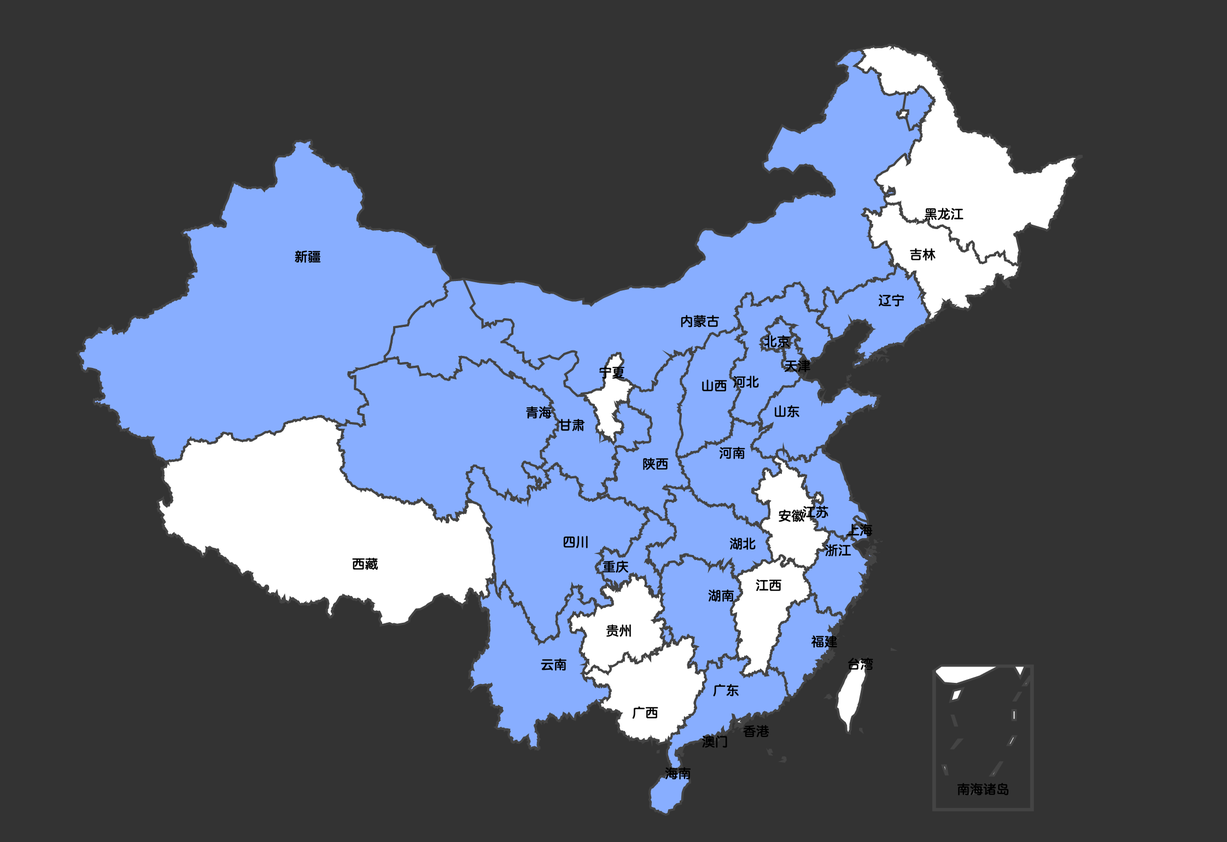
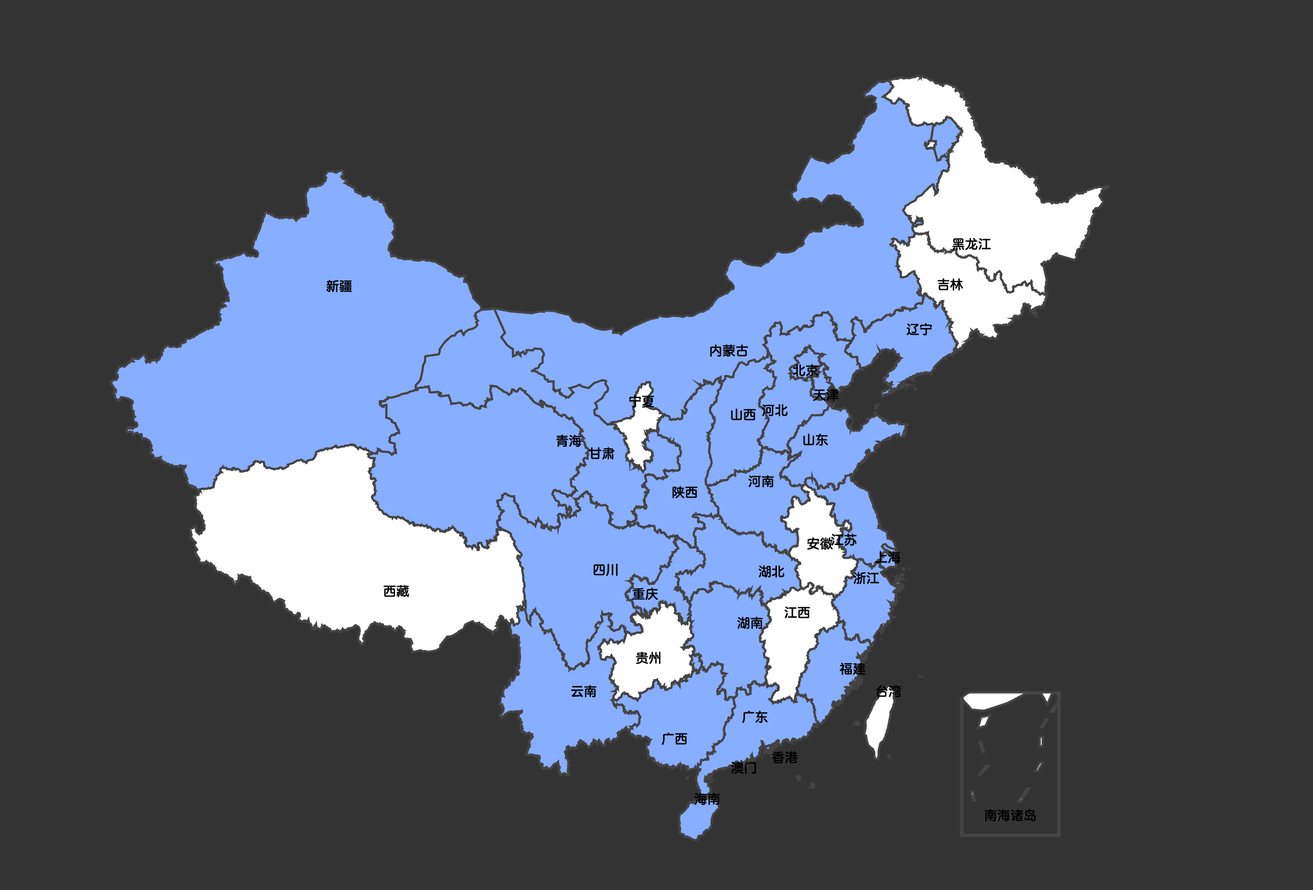
update

diff --git a/source/_posts/travel18.md b/source/_posts/travel18.md
@@ -1,0 +1,193 @@
+---
+title: 渔舟唱晚，孤舟蓑笠翁
+date: 2024-01-11 22:41:58
+tags:
+- 桂林
+- 旅行
+- 感想
+---
+
+![](/images/2024/01/guilin/18.jpeg)
+
+“人们都说：桂林山水甲天下。我们乘着木船荡漾在漓江上，来观赏桂林的山水.......”，你一定小时候也背过这篇课文，但直到如今我才能够一睹真容。天空还下着小雨，雨水滴滴答答的跳落在凤尾竹叶上，顺着周总理的对漓江两岸风光的愿景，轻轻的落在铺满鹅卵石的步道上，与一群群的白鹭搭伴，我就这么走了十几公里。
+
+## 前言
+原本打算元旦假期就这么算了的，就是因为还有一件非常重要的事情正在等着我去做，但思来想去后实在是不愿意把这么美好的元旦假期给放过，遂决定出游。全中国目前我还剩包括澳门在内共计 8 个省份和地区，其中完全没有动力的是吉林和黑龙江，不是我不喜欢东北，而是目前还不清楚去东北看什么，而安徽比东北稍微好一点，安徽有个黄山和宏村，徽式建筑也一直让我魂牵梦绕，但江西和东北一样，暂时无动力。至于西藏，完完全全只是因为机票太贵，但凡去拉萨的机票能够砍一半，估计早都去了好几次了，争取今年五一去吧。至于宁夏，我知道那块有个大峡谷非常不错，但实际上是那一片得连起来，把黄土高原的风土人情一块都带上才是最佳。
+
+那最终目的地就到了贵州和广西如何选择了。贵州我的打算主要是去看瀑布和黔东南地区的少数民族寨子，但现在正好是冬天，搜了一发，只要是看瀑布的地方都需要定时放水，看不到“飞流直下三千尺”的壮观，贵州也就作罢。最终反反复复看了广西的行程，发现桂林漓江周边是一个非常有意思的地方，不管是任何季节都有不同的景色，尤其是我还发现居然还有“漓江徒步”这个选项，从桂林城区走到阳朔共计 80km 左右，基本上就是两天的行程，很是让人心动。
+
+最重要的是从北京飞桂林仅需 600！马上订好机票和酒店，开始的规划广西的行程。
+
+## 规划
+可能是太久没出们旅行了，距离上一次出门过去了整整两个月，天气确实冷，但我个人觉得自己的心态确实是被工作上的事情给影响到了。所以这一次总想着要在尽可能短的时间里去到尽可能多的地方，在整个广西只有 5 天的时间，而我做好规划后却打算去桂林、阳朔、柳州和南宁四个地方，拿着这份简单的行程说给女朋友听都被啧啧称奇“你确定要去这么多地方吗，听着就挺累的”，刚开始我还不以为然，想去桂林就是为了桂林山水和米粉，去阳朔是听说”阳朔山水甲桂林“，而去柳州则是完全为了螺蛳粉，南宁的话纯粹就是首府执念了，总觉得去到一个全新的省份至少应该把首府去逛逛。
+
+后来临近出行时，我只规划好了桂林和阳朔的行程。第一天到达桂林后，调整状态，去逛逛城区，看看穿桂林城而过的漓江。第二天把桂林城区的几个景点给拿下，比如具有“国宾洞”之称的芦笛岩，我还从未看过任何的溶洞，可以说是非常的期待了。第三天乘漓江游船下阳朔，在船上领略漓江两岸风光，到达阳朔后赶车去七星岩，继续看溶洞，晚上去看印象刘三姐演出，当天刚好 31 号晚上赶跨年。至此，后面还有两天的行程没了，因为想着随机应变，反正是桂林旅游淡季，应该不会有太多游客。
+
+这次旅行还有一个非常有意思的地方，我准备以后完全抛弃掉行李箱，慢慢觉得行李箱真是个非常累赘的东西，只能拖着，而且能且只能在硬质路面上才能发挥出最佳优势，但凡路面多少有些坑洼不平，那种酸爽只有拉着三四十斤行李箱的自己才知道痛苦。这回直接从迪卡侬搞了一个 60L 的徒步背包，所有东西包括相机和电脑可以完全丢进去，甚至还富裕了 10L。整体体验下来非常合适单兵作战，机动性非常强，包不离人，想跑就跑，这种所有东西都带在身上满满的安全感，也只有在外出旅行时才能有所感受了。
+
+![](/images/2024/01/guilin/0.jpg)
+
+## 吃喝
+仔细想了想我应该在这五天时间里吃了快两斤的米粉，只要是吃米粉必然三两起，而且每一家的味道都有些许不同，一碗米粉两种吃法，先干捞后喝汤，好不畅快。但唯一需要吐槽的是平价米粉我只在桂林城区吃到了，越是去到当地只靠旅游业支撑起来的地方，阴阳价格越是离谱。这里要点名批评兴坪古镇的所有商家，怎么可能一碗米粉要 20+ 人民币呢？看了下兴坪县的经济数据，果然猜测的没错，第三产业都快赶上第一产业了，换句话说服务业已经基本上深入当地人心了，这种情况下必然会带来旅游乱象，因为大家都想往里狠狠的捞一笔，只能靠政部门的引导，反正兴坪我下次是再也不会去了，只能路过，坚决不花一毛钱。
+
+![](/images/2024/01/guilin/1.jpg)
+
+至于啤酒鱼，那可真是太好吃了！太下饭了！真诚推荐每一个去到桂林玩耍的人有机会都要点一份啤酒鱼试试，我是在阳朔的“大师傅”吃的，但我个人推测啤酒鱼各家的味道都差不多，基本上已经到了拼杀服务和附加价值的地步了。说实话，本来我是不打算吃啤酒鱼的，但实在是架不住阳朔满大街的啤酒鱼，在阳朔的第一顿饭我吃的是沙县小吃，后来为了跨年看阳朔西街的烟花，在西街里又吃了一顿晚饭，但还是绕过了啤酒鱼。主要是我不喜欢吃淡水鱼，总觉得有一股“土味”，而且之前吃烤鱼的经验看下来，好几次从鱼肉里看到长长的寄生虫，实在是反胃。但我最后还是没忍住，还是想试试，就这么一试，发现了新世界！我还从未吃过如此下饭的啤酒鱼，非常适合玩了一天后好好的吃一顿。
+
+在去过的这几个地方都有几条著名的小吃街，但还是那句话，在我去过的这些小吃街或者网红街又或者是风俗文化街都大差不差，真正算得上是顶流，我觉得依旧是丽江古城，整座漓江古城都被打造成了现代化街道。但需要注意我的前提，指的是在我去过的这些地方里，想要彻底的感受一番现代化的古镇、步行街甚至是网红街之流，丽江古城绝对是顶流，一年四季，一天早晚，都有不同的景色。现在回想起来可能还是因为丽江古城里全城有水，而且城里的商家也有意统一观念，家家户户的门庭都弄得十分漂亮，真的很推荐大家去丽江古城，尤其是带着自己心爱的女朋友去拍拍照，真的超级漂亮超级出片。
+
+![](/images/2024/01/guilin/2.jpg)
+
+再说回桂林、阳朔和兴坪古镇的这几条街，说实话这些街都没有特色，或者说都没有丽江古城那般有特色，都说丽江古城是艳遇之城，整座古城一到晚上就刻意营造出充满着暧昧的氛围，和自己亲爱的她一起走走看看是非常舒服的，但在广西的这几天逛的这几条街都没有类似的感觉，只觉得商业化氛围实在是过于浓厚了，特别是强烈点名批评阳朔西街，干脆也别叫什么西街了，直接叫购物街吧，当地虽然也都在宣传阳朔西街越晚越好玩，但我实际观察下来，所谓好玩不过就是男男女女那些事，去些所谓的酒吧罢了，目前还看不出有什么特别的地方。而且退而求其次，假设要去阳朔西街拍照，我是真的觉得太逼仄了，我反正是觉得在一个购物中心没什么好拍的。还是那句话，看现代化方式运营的古镇，推荐大家去丽江古城。
+
+## 玩乐
+
+### 第一天
+我是早上九点的飞机，到达桂林刚好中午，富裕出整个下午和晚上的时间，刚好可以做个调整。从桂林机场出门寻找机场大巴坐到“民航大厦”，一人 25 元，桂林没有地铁，机场打车去市中心一个人实在是亏的慌，机场大巴价格比打车便宜一半以上，而且时间也不差。到达桂林酒店后我迫不及待的马上拿起相机外出寻找第一碗米粉，走出酒店大门后心情还是有些低落的，因为身边的景色与家乡无异，本来就从属岭南地区，同一份文化血脉。
+
+去到了一家三两米粉六元的街边小店，甚至因为价格实在是太便宜了导致我以为量很少，一直找墙壁上的菜单寻找最贵的套餐，后来拿到一碗沉甸甸的米粉后，才有了实打实的感受，原来三两的份量如此的大。味道确实不错，第一次吃干捞米粉，我也是观察到其他食客的吃法才发现原来大家都喜欢一粉两吃，先吃干捞，吃剩下还剩一点一份和小料时，打上半碗汤，就这么喝了下去。我也尝试了一次，不管是干捞还是最后的加汤，这两种吃法的味道都非常不错！
+
+吃好米粉后我保持城市 city walk 的方式来到了不远处的“靖江王府”，我以为类似这种城市景点门票也就意思意思罢了，没想到靖江王府高达 100 元的门票价格却成为了此行我最隔应的价格，我实在是不理解故宫旺季才 30 元，靖江王府何德何能收 100 元门票。但没办法，谁让靖江王府是目前桂林城区为数不多的 5A 呢？历史什么的大家网上了解到的信息更多，而且本质上这个王府已经完全没有任何古建筑甚至可以称得上“古”的东西了，这个景区的之前已经完全被作为广西师范大学的老校区一直到现在还有一个系没有搬离，可以说进入景区里你是不会感受到任何历史有时空上交流的。现存的所有建筑都是近现代不过几十年重建的，但如果可以把门票拆出来的，独秀峰确实可以单独去看看，“桂林山水甲天下”的诗词石刻就在独秀峰脚下。
+
+![](/images/2024/01/guilin/3.jpg)
+
+两江四湖应该算得上是桂林最坑景点，虽然是上个世纪桂林政府的政绩工程，为了恢复桂林城“千山环野立，一水抱城流”历史风貌，愣是顺带搞成了 5A，但整个两江四湖区域都说免费的，好评！两江指的是“漓江”和“桃花江”，四湖指的是“桂湖”、“榕湖”、“杉湖”和“木龙湖”，所谓两江四湖指的就是这几个区域都被打通了，坐在游船上可以一路畅通无阻，但坑就坑在这个游船上。我并不清楚为什么要把游船推得这么猛烈，但实际上出了四湖区域，到了桃花江和漓江游览区域简直就是把原本还算凑活的印象直接拉到不及格。
+
+![](/images/2024/01/guilin/4.jpg)
+
+![](/images/2024/01/guilin/5.jpg)
+
+绝大部分下我们之所以选择在夜晚乘坐游船，无非就是为了夜景，而夜景说白了就是看灯光布景，先不谈灯光设计如何，但最起码得有光对吧，四湖区域确实达到了我对坐游船看夜景的预期，但到了桃花江和漓江时真的非常离谱，大家要知道桂林城是不允许有高层建筑的，首先是地理因素，其次整个桂林城都强依靠旅游业支撑，从性质上就拒绝了高层建筑。那么到了开阔区域，比如桃花江和漓江区域上，一是完全看不到任何高层建筑的夜景灯光，因为就没有高层建筑。二是桃花江流经区域没有任何灯光，黑乎乎的一片，但游船上的讲解员还是在一本正经的在介绍河岸和经过的桥梁历史，很是尴尬。三是原本大家都把预期吊得非常高，就是想要到漓江上看象鼻山的夜景，没想到象鼻山只有两盏灯光，一白一黄，就这么呆呆的打在了象鼻山上，我实在是难以理解这有什么值得看的。
+
+因此夜游两江四湖的项目我觉得完全可以废弃掉了，核心区域只有四湖区域，而四湖就在市中心，吃好晚饭后自行溜达即可，白天和夜晚都有不同的景色，完全没有必要花费将近两百元的价格坐什么游船，实在是令人尴尬。
+
+### 第二天
+但好在第二天的桂林城之旅让我彻底改变了对桂林的初印象。第二天一大早吃好早餐后立马打车去芦笛岩，芦笛岩距离市中心只有 5km，推荐大家第一次来桂林玩耍都要去一次。芦笛岩是“国宾洞”来作为官方宣传的，本意就是接待了非常多的国家元首和政治家，不过芦笛岩的辉煌也是在上世纪和本世纪初交际，现如今都已经落败了，最主要的原因去的人多了导致是钟乳石氧化了，其实也能理解，像钟乳石这种不可再生自然风光，随着时间的流逝，只要做过景区开发，真的有可能后辈再也看不到了。芦笛岩整体看下来我个人觉得非常适合作为溶洞爱好者的“第一洞”，因为有完善的讲解和恰到好处的时间安排，居然成了此次桂林之行最佳景点。
+
+![](/images/2024/01/guilin/6.jpeg)
+
+![](/images/2024/01/guilin/7.jpeg)
+
+![](/images/2024/01/guilin/8.jpeg)
+
+![](/images/2024/01/guilin/9.jpeg)
+
+![](/images/2024/01/guilin/10.jpeg)
+
+![](/images/2024/01/guilin/11.jpeg)
+
+从芦笛岩出来后我立马接着赶去叠彩山，目的是为了从高处看漓江风光。但桂林城区的这些独立的小山峰圈起来作为景区的行为怎么说呢，虽然从外观看大差不差，原本我确实是只打算去那么有代表性的一两个即可，但经过叠彩山的售票员这么一忽悠，我的叠彩山和伏波山买的是景区套票，但实际上这两个相聚 900 米的小山头里全然不同，叠彩山的一大特色就是登顶望漓江，但伏波山没想到居然山底下有这么大的溶洞，甚至还有一大片的石刻佛像，大呼意外！但就山色来说，喀斯特的地貌的山体外貌确实都大差不大，唯独内部的历史各有千秋。
+
+![](/images/2024/01/guilin/12.jpg)
+
+叠彩山和伏波山都仔细的游览一遍后，我随意找了家饭馆解决了午饭，扫码骑美团电动车来到了七星公园。七星公园如果不是为了看七星岩溶洞是不用花钱的，但我打算这一次尽可能多的看溶洞，因为这种地理风貌之前真的完全没有接触过。七星岩溶洞的内部很大，不光是入口大，七星岩我觉得就是以内部空间巨大而出名，随便几千人作为避难所是完全足够的。但七星岩里的溶洞景观确实没有芦笛岩好看，但空间之广阔留下的极强的印象，还是很推荐大家来七星岩一览风光。
+
+![](/images/2024/01/guilin/13.jpeg)
+
+七星公园除了特色之一的七星岩溶洞外，还有形似骆驼而闻名的骆驼山。没有见到骆驼山真貌时我一直怀疑不可能存在如此形似骆驼样貌的山体，但见到真貌后却因为过于形似而怀疑是否景区对山体做过改造才使其变为了如今骆驼山的样子，因为实在是太像了，如果真的是自然形成的话，完全可以作为桂林山景的顶流存在，但好像却没有见有太多的宣传，是否是纯自然形成的山体景色对此存怀疑态度。
+
+![](/images/2024/01/guilin/14.jpg)
+
+穿山是我当天的最后一个景区，其特点为山体中间有一个巨大的洞穿山而过，因此得名“穿山”。整个穿山景区现如今也已完全免费，看小红书上的介绍说是附加居民天气炎热时会约上三五好友到此打牌娱乐，确实非常有特色。在洞中还可以遥望对面塔山景区，一座古塔就这么矗立在对面不远处的山头上，行人如织。从穿山景区出来已然是下午五点过了，基本上已无法再继续浏览景区，遂打算继续扫码骑上共享电瓶车逛逛桂林市区。确实非常推荐大家来桂林玩耍时可以随意扫上一辆共享电瓶车，沿着江边小路慢慢的逛着，每到一处令自己感到心情愉悦的景色就停车享受，不用像集邮似的定下今天必须要去哪哪哪，不过这也跟城市有关，刚好桂林更适合这种走走停停的方式游览，特别是情侣两人慢慢悠悠的走在江边，很是畅快！
+
+![](/images/2024/01/guilin/15.jpeg)
+
+### 第三天
+第三天的行程安排得我个人感觉现在回想起来实在是太赶了，而且太听旅行社的安排了。早上七点二十上大巴，去到码头坐九点半的游船顺着漓江而下达到阳朔，到达阳朔后继续转乘大巴下午 15 点出发游览银子岩，最后看晚上 19 点半的《印象刘三姐》，整体感受下来毫无喘息的机会，以后但凡有让自己感到不舒服的安排一定要坚决说不。
+
+漓江游船没有给到我太惊艳的感觉，比较中规中矩吧。全程游船耗时共计四个多小时，前半小时比较平淡，后一个小时也比较平淡，最精华的就是中间的三个小时，游船这个倒没有什么坑，反而街边随便找一家旅行社预定还有比较大的优惠，但需要注意的是，我们是为了看漓江两岸的风光而选择坐船，不是为了坐船而坐船，而且就算是你买了最贵的四星船票还选了 vip 区域，所看到的风景与最便宜的三星船票没有任何区别，不要听信旅行社的宣传说二层位置更好，以及 vip 包厢人更少更安静。
+
+如果你没有在付款时选择升舱来到二层，在大巴上甚至直到安检上船之前，导游都会一直在给你灌输二层的风景更好，我这里升舱会更加便宜，仅需 30。如果当时我是与女朋友一起的话，我真的就会直接买了升舱服务，但我一个人真的无所谓。但谁知，估计是我在大巴上与导游互动太多，因为当时的我心情非常好，我对即将到来的漓江两岸风光非常之期待，在没有上到游船之前，任何的缺点和曲折都不会影响我。此时奇怪的地方来了，导游先是给我来了一个电话，说是给我争取到了二层升舱的机会，仅需 25 元就可以，我当时内心真的差一点就心动了，但我的理智还是战胜了我，就是因为我明确的知道，只要开船了，我就会一直呆在甲板上，不管坐哪对于我来说都是无所谓的，所以我直接拒绝了她。
+
+![](/images/2024/01/guilin/16.jpg)
+
+但令我感到十分意外和不快的是，此时导游居然开始转换了语气，让我帮帮她，这个时候我的黑人问号就出来了，更是义正严辞的说不要。后来我看到她拿着票后，她居然还能够认出我来，就算是在电话里我说了不要升舱，她居然还是给我搞到了二层，并继续让我帮帮她，这个时候我就十分郁闷了，明明都在电话里说好了，我说了不要，为什么还是要给我搞到二层，自动升舱呢？导游见我依旧还是不松口，不愿意多给她这 25 元，马上就让我跟她去窗口换票，我也只好拿上背包打算跟她一起去，但就在我准备好背包后，都已经做好了去窗口换票的心理预期，她居然直接把票给我了，并嘱咐我快点去安检，不要错过了登船时间。
+
+可能文字并不太好表达出我当时的内心感受，但当时的我真是在短短的几分钟内满头都是问号，以至于我在拿到票后，仔细确认了下我会不会原本就是二层的座位，只是导游发现我的票真的是二层后，想顺势敲我一笔。因为在没有出票之前，所有人都不知道自己的座位号是多少，只有你明确就是要二层才可以多加钱，否则在二层未满的情况下，为了保证一条船的满座率，你还是有极大可能是二层座位的。因此，我到现在都一直在怀疑，我真的就是二层的号，一切都是这个导游在其中搞鬼。
+
+等到我们最终上船后会发现，首先是想看风景都会上甲板，其次是 vip 区域任何人都可以进去，并没有限制你的人身自由，最后是就算你坐在 vip 包厢里，风景也不是最佳的，最佳风景永远在顶层甲板上，只有那里才有最宽广的视野，才能够感受最真实的漓江两岸风景。因此，有多便宜的船票买多便宜的，能不吃船上的任何一个东西就不吃，担心中午肚子饿就多买一些零食、泡面甚至是自热米饭到船上吃。我看到船上的一个小菜卖 30，一阵反感直上心头。
+
+![](/images/2024/01/guilin/17.jpeg)
+
+![](/images/2024/01/guilin/19.jpeg)
+
+但说实话哈，站在甲板上确实非常合适一个人思考，从游船开出桂林码头后，我就再也没有回到船舱里呆过，就算是站累了我也是一个人静静地坐在楼梯边，脑子里什么也不想，就这么空空的看着往后流逝掉的一切，这一刻就好似具像化了时间，感受到了时间的流逝。是啊，在一栋栋写字楼里呆久了，不光是对时间的感知变迟钝了，连自己的所思所想也被同化了，很多时候并不是我们没有想法，也不是我们不想去做些什么，更不是我们不能去做选择，而是被套上了这个社会的刻板枷锁后，尤其是其他人都套上了这个枷锁，而你却悠然自得的脱下了它，那你觉得到底是谁的问题呢？虽然我们可能并没有问题，但到底是谁的问题，真的不好去判断，只能看自己的内心中修炼到多大，能有多大的承受压力去面对这与众不同的一切，也只有这样，超脱于世的枷锁才算是真正的摆脱了吧。
+
+![](/images/2024/01/guilin/20.jpeg)
+
+![](/images/2024/01/guilin/21.jpeg)
+
+到达了阳朔后，随着乌泱泱的人群一起走向码头出口，我以最快的速度前往电瓶车上车点，就为了可以赶上 15 点那班去往银子岩景区的大巴车。在大巴车上，我很饿，原本以为在漓江游船上我买的三星游船票是带午饭的，但实际上却没买上，原本以为可以提前到达吃上一口热乎的汤米粉，但实际上差一点赶不上大巴。
+
+在车上才了解到原来银子岩是完全自游览景区，没有讲解纯靠自己的一双脚自行游览，而且银子岩非常大，就算是不拍照不观景闷头往前走，最快也得将近半小时才能走出来。银子岩真的是汇集溶洞景观之大成者，幸亏我是最后才来的银子岩，如果你有机会先来到银子岩，那么不管是芦笛岩还是七星岩都可以不用再看了，因为论钟乳石特色还是还是论溶洞特点，银子岩一个都足以完全让其他溶洞自愧不如。但说实话，银子岩真的需要我们用心慢慢走走逛逛，而不是像我一样被导游卡了时间，从下车到上车只有短短五十分钟时间，就是因为银子岩是自游览溶洞，很多景色是需要多角度观察的。但也不是没有缺点，唯一的缺点就是银子岩太大了，导致洞内空气流通非常差，我这好歹还是冬天去的，在洞里都感到一阵闷热和潮湿，这要是夏天去的，估计洞里的味道会非常不好闻，老年人感觉会有些危险。
+
+![](/images/2024/01/guilin/22.jpg)
+
+从银子岩出来后重新回到大巴车已经是下午五点了，距离印象刘三姐还有不到两个半小时，而我的肚子是越发的饥饿，银子岩景区门口售卖的烤肠估计是烤太久了，一口下去全是干干巴巴，难以下口，芋头饼也非常难吃，最后还是靠着啃了一根玉米而稍微有了些饱腹感。来到刘三姐景区已是晚上 18 点，我原本打算随意找一家米粉店嗦上一碗米粉即可，谁知前往刘三姐景区的路边两旁的米粉通通关门，好在最后终于被我找到了一家“沙县大酒店”，饥肠辘辘的肚子才终于得到了拯救。
+
+印象刘三姐从 2004 年 3 月正式公演的第一场到现在也已走过了将近 20 年，先不说演出了，就算是能够保持 20 年品质不下滑的景区也鲜有存在。已经忘记了自己的第一场户外实景演出是啥时候以及哪一场开始的了，但印象刘三姐绝对是气势最磅礴的一场，中间确实有些点没有理解到位，但全场看下来，演出所要表达的情感是真真切切的感受到了。我觉得最好玩的是，这也是我第一次见到距离舞台越远票价越贵的表演了，如果大家有机会的话，非常推荐购买 280 元的 B1 区，比较可能就看这么一场，好好的感受下是肯定值得的。我的下一排刚好是两位俄罗斯来的外国友人，看着他俩不停的拿着手机拍拍拍，身为一名中国人的我，坐在藤椅上的脊梁也在不知不觉中更挺拔了一些。
+
+![](/images/2024/01/guilin/23.jpg)
+
+当晚正好是 12 月 31 号，2023 年的最后一天。看完刘三姐从会场出来后，所有的电瓶车都满了，我选择走两公里去入住的酒店，走到主干道上后才庆幸自己是走路而不是坐电瓶车，正因为西街有跨年烟花的因素，前往阳朔西街的所有道路都被挤得水泄不通，就连行人都前进困难。好不容易我终于慢吞吞的移到了酒店，从天桥上望向西街，连连赞叹，“俺已经很久没有见过如此大的人流量了！”。
+
+整个阳朔西街给我的初印象不是很好，不是因为游人太多而不好，而是西街里的小店和整体给人的感受不好。人少我反而还觉得在跨年夜这种情况下才是异常，但西街整体并没有任何值得好好欣赏的地方。确实地方不大，但就算是地方不大也不应该满大街的全是千篇一律的相似小店，总感觉没有玩出阳朔特色，倒是酒吧区域在跨年夜当晚玩荤的不少，后来仔细想想，这应该是我第一次亲眼所谓所谓“荤吧”。走了一天也确实是累了，确实是挺想找一家比较有特色的清吧坐坐，听听歌，但我走了三圈，愣是没有找到任何一个 Bar 是不爆满的，最好只能去选择吃夜宵，补上一顿正式的晚饭。
+
+![](/images/2024/01/guilin/24.jpg)
+
+吃好晚饭继续去河边逛了一圈，发现有人在放烟花，许久未见烟花的我必然是欣然前往。驻足观看了好久，问了下从哪买的烟花，居然大家都是在偷摸放的，整个阳朔县城都是禁止燃放烟花，这又到了我不理解的地方了，阳朔这种地方不就是靠着每年的旅游季节，靠着绿水青山，居然烟花也要禁，只能说是东施效颦了。逛到了 23 点半左右，我打算往西街中心区域走去，方便跨年烟花的观看，没想到中心区域早已站满了人，最好我只能往公共厕所移去才得以有一个让自己可以充分抬起手机远离聚集人群的空间。
+
+“5！4！3！2！1！...哇！！！”我跟着大家一起倒计时迎接 2024 年的到来，烟花就这么顺着西街的大楼倾洒而下，这是我第一次见到像瀑布一般的烟花流下来了，重点是烟花流下来了也！！！虽然我正在处在多种气味相混合的公共厕所里，但不远处的瀑布般流下的烟花还是让我疲惫的脸上逐渐露出了开心的、迎接新一年的笑容。但随着噩梦也就来了，从公共厕所的位置回到酒店不过几百米的距离，但我却死活挪动到了将近凌晨 1 点，几万人都挤在这小小的西街里，警察叔叔的无人机都要飞好几辆才能够把维持秩序的广播都塞入到每一个游人的耳朵中。
+
+![](/images/2024/01/guilin/25.jpg)
+
+### 第四天
+第四天我很机智的通过酒店前台花费 40 元租了一辆电动车，虽然说是 70km 的续航，但实际上体验下来确实不到 70km，最后搞得我十里画廊都没有走完。如果你也要去到阳朔玩耍，我非常推荐你也租一辆电动车，直接向老板要求我可以给你加钱，但你必须给我续航最长的车，因为阳朔周边好玩的地方实在是太多了，否则你还得反复折返回阳朔
+
+![](/images/2024/01/guilin/18.jpeg)
+
+![](/images/2024/01/guilin/26.jpg)
+
+遇龙河竹筏挺有意思的，大家都说阳朔都得去坐一次遇龙河竹筏，但我这人吧确实有些贪心，总想着来都来了，那就要搞超大杯。原本打算是时间最长的竹筏，共计 9 公里花费将近 300 元，但后来反复查看攻略最后才选择了直接感受最精华的部分。总说听人劝吃饱饭，幸亏我最后选择了短程的区间，刚开始兴趣盎然，快到工农桥终点时，屁股都给坐疼了，只想着赶紧上岸。就算是我选择的这段精华部分 200 元的价位，也可以冲坝三次，体验确实挺新奇的，需要保护好手机相机，可能会被水溅到了，稍微注意点即可，问题不大，不要随意乱买鞋套和防水袋，没有意义。
+
+![](/images/2024/01/guilin/27.jpeg)
+
+从工农桥上岸后，我想了想还是在景区里顺带花了 190 元买了如意峰的门票。当我在景区的游客中心里发现居然仅需 190 元就可以买到如意峰的门票后，我对桂林旅游不好的体验再画上了一笔，早上出门在酒店前台租电动车时，前台说可以帮我购买如意峰的门票，优惠价仅需 200 元，携程价为 240 元，刚开始我还挺意外的，居然能够便宜这么多，但最后还是忍住了，因为当时并不确定自己到底是否有充足的时间游玩。后来发现居然仅需 190 元就可以购买到门票后，内心真的很不是滋味，特别不爽，感觉桂林完全不配作为国家旅游名城，收费特别不明确。
+
+但这也是时候诸葛亮，对于当时的我来说，这些都是小钱，就算是原价我也可以毫不顾虑的买下来，只是我真的很难理解这种差异化定价行为。但就在我继续骑着电瓶车前往如意峰的路上，发现路边居然有这么多举着小牌子卖优惠门票的当地村民，好像就明白了什么，这就是当地政府给当地人创收的机会，我一度觉得这些景区的门票价格懒腰砍一半还要低，好你个桂林啊！如意峰只有在天气晴朗或者雨后初晴的时候去才是最佳观景时间，我去的时候正好整个华南平原都是雾霾天。远处的山只有灰蒙蒙的一片，近处的包茂高速上若隐若现形同蚂蚁般大小的车辆，仿佛是是漓江上的竹筏，慢慢的滑向令万千游子魂牵梦萦的山水间。
+
+![](/images/2024/01/guilin/28.jpeg)
+
+![](/images/2024/01/guilin/29.jpg)
+
+从如意峰下来后，我继续驱车前往十里画廊景区，整个十里画廊说实话都挺普通的，给车行驶的马路距离漓江边太远了，只能远远的看到被凤尾竹遮挡若影若现的山峰。此行我的目的地是状元桥和它附近的“村上春树”田野上的咖啡厅。但好巧不巧，此时的标称续航 70km 的电瓶车居然快没电了，电量已经来到了一半，但距离我的目的地却还剩下一半左右的距离，原本满怀期待的我此时却开始担心起是否会推着电瓶车回到城里。但一切的安排都是最好的，我一直往前开，没有注意去看地图，没想到开着开着居然发现我来到了桂林千古情景区附近，再仔细一看地图居然已经开向了回程的路上，你就说命运的安排是不是非常的有意思。
+
+就这样，既然已经开向了回城的道路那就顺势回城吧，刚好此时温度开始下降了，出门只穿了一条风衣和长袖的我开始瑟瑟发抖。重新回到酒店穿上厚衣服后就准备去吃我的第一顿啤酒鱼了，阳朔的啤酒鱼确实如上文所说满大街都是，我也就是随意找了一家，味道如何在上文“吃喝”环节已与大家分享过，结论就是可以冲。吃好啤酒鱼后，我就回酒店还车了，还车时仅剩下最后一格电。
+
+![](/images/2024/01/guilin/30.jpg)
+
+因为是最后一天呆在阳朔了，但阳朔的夜生活我却没有仔细的感受一番。重新回到西街，人流量肉眼可见的大幅缩减，完全没有昨夜那般疯狂，好像西街又恢复了它原本应有的样子。我再次找寻到了昨夜留意到的清吧“小马的天”，没想到我居然是第一个客人，这与昨夜熙熙攘攘的人群可差距太大了。但直到我 22 点出门后，总共进店消费的客人也不过 10 人左右，主唱之一的小姐姐看我在店里坐了几个小时，拿着一杯红酒与我交谈起来。不过在这种旅游业为主的地方，两个陌生人能够交谈的内容无非就是你从哪里来，要到哪里去之类的话题。
+
+### 第五天
+
+兴坪古镇其实一开始并不在我的预期目的地里，奈何阳朔撑不起三天的旅程，再加上兴坪古镇比阳朔县城距离阳朔高铁站更近一些，遂打算最后一天安排给了兴坪古镇。但天公不作美，醒来后直接就是一场大雨，一直把我拍到了中午将近 12 点还是没能离开酒店，心想着再等下去，今天可能没法去成兴坪了，开始尝试在滴滴上叫车。从阳朔叫车去兴坪要将近 70 元，虽然也没多少钱，但大巴仅需 5 元啊！这也是我为什么一直在等雨停的主要原因，一个人出门在外，主打的就是一个非必要不乱花钱，花钱花在刀刃上。
+
+但就是这么意料之外的行程，兴坪古镇居然也成为了此行的惊喜所在。兴坪古镇依漓江而建，可以说完全就是个漓江边的渔村而逐渐发展起来。上文也已说过，在我最初的几个计划当中，从桂林徒步到阳朔的漓江之行是备选方案之一，但因为女朋友的强烈拒绝而作罢。但我真的在兴坪古镇稍微满足了自己徒步漓江的愿望，一直从兴坪古镇走到漓江步道最远处，来回共计 16 公里，再加上当时天空中下着小雨，这种烟雨漓江的感觉实在是太美好了。刚好，我也趁着这一个人行走在漓江边的机会，录制了自己 2023 播客版的年度总结，碎碎念比较多，但通过这种方式来做自己的年度总结，确实颇有一番风味。
+
+![](/images/2024/01/guilin/32.jpeg)
+
+![](/images/2024/01/guilin/33.jpeg)
+
+漓江边徒步返回到兴坪古镇已是接近夜晚，在大众点评上找了一家评分最高的饭店去吃了竹筒鸡，味道还真的不错，基本上把汤都给喝光了，毕竟刚淋了一路的雨水，几大碗竹筒鸡汤下去，舒服极了。而在兴坪古镇的民宿真的是订到了我的心坎上去了，特意找了一家有洗衣机，大落地窗的民宿，打电话一问老板，居然还提供衣服烘干服务，看着沉重的背包里还有几件完全没有穿过的衣服，再次坚定了我下次出行继续削尖行囊的打算，一个人出门三套衣服就足够了。
+
+整个兴坪古镇一到夜晚就非常干净，其实兴坪是非常适合拍星空的地方，可惜这种广西这种十万大山深处是非常容易有自己的小气候的，天气预报也时常不准，一直到第二天兴坪才是蓝天白云的好天气，但我的元旦假期也就到此结束了。
+
+![](/images/2024/01/guilin/38.jpg)
+
+![](/images/2024/01/guilin/35.jpeg)
+
+![](/images/2024/01/guilin/37.jpeg)
+
+
+## 总结
+总体而言，我个人感受下来没有感觉到桂林旅行有什么坑的地方，反而整体的体验还算不错，但中途确实有几个小点让自己相对不太舒服，但也好在没有花费额外的金钱成本。但你问我下次还要不要再去，只能说我的意愿不强，最主要的原因就是没有让我感受到这个地方的独特性，漓江风光也没有特别出色，反倒是漓江徒步或者是越野跑会争取机会再来一次，走在漓江边的感觉真的非常舒服。

diff --git a/source/photograph/index.md b/source/photograph/index.md
@@ -3,6 +3,34 @@
 人生啊！果然要珍惜当下。
 
 
+### 2024.01 桂林
+![](/images/2024/01/guilin/6.jpeg)
+![](/images/2024/01/guilin/7.jpeg)
+![](/images/2024/01/guilin/8.jpeg)
+![](/images/2024/01/guilin/9.jpeg)
+![](/images/2024/01/guilin/10.jpeg)
+![](/images/2024/01/guilin/11.jpeg)
+![](/images/2024/01/guilin/13.jpeg)
+
+![](/images/2024/01/guilin/14.jpeg)
+![](/images/2024/01/guilin/15.jpeg)
+![](/images/2024/01/guilin/17.jpeg)
+![](/images/2024/01/guilin/18.jpeg)
+![](/images/2024/01/guilin/19.jpeg)
+![](/images/2024/01/guilin/20.jpeg)
+![](/images/2024/01/guilin/21.jpeg)
+
+![](/images/2024/01/guilin/27.jpeg)
+![](/images/2024/01/guilin/28.jpeg)
+![](/images/2024/01/guilin/37.jpeg)
+![](/images/2024/01/guilin/38.jpg)
+
+### 2023.12 北京
+![](/images/2024/01/photos/0.jpg)
+![](/images/2024/01/photos/1.jpg)
+![](/images/2024/01/photos/2.jpg)
+![](/images/2024/01/photos/3.jpg)
+
 ### 2023.11 北京
 ![](/images/2023/street_snap/11/0.jpg)
 ![](/images/2023/street_snap/11/1.jpg)

diff --git a/source/about/index.md b/source/about/index.md
@@ -83,7 +83,7 @@ WTM 2019 @ GDG Beijing:《Python 从 0 到 1》| 助教
 2015 北京半程马拉松 | 志愿者
 
 ## 旅行
-珠海、香港、威海、鄂尔多斯、深圳、大理、丽江、大连、呼和浩特、洛阳、大同、崇礼、厦门、福州、苏州、南京、广州、青岛、杭州、舟山、上海、德令哈、大柴旦、丹霞镇、张掖、敦煌、亚丁、成都、张家界、乌鲁木齐、吐鲁番、青海、重庆、西安、武汉、北京、天津、海南
+桂林、珠海、香港、威海、鄂尔多斯、深圳、大理、丽江、大连、呼和浩特、洛阳、大同、崇礼、厦门、福州、苏州、南京、广州、青岛、杭州、舟山、上海、德令哈、大柴旦、丹霞镇、张掖、敦煌、亚丁、成都、张家界、乌鲁木齐、吐鲁番、青海、重庆、西安、武汉、北京、天津、海南
 
 圣何塞、旧金山
 
